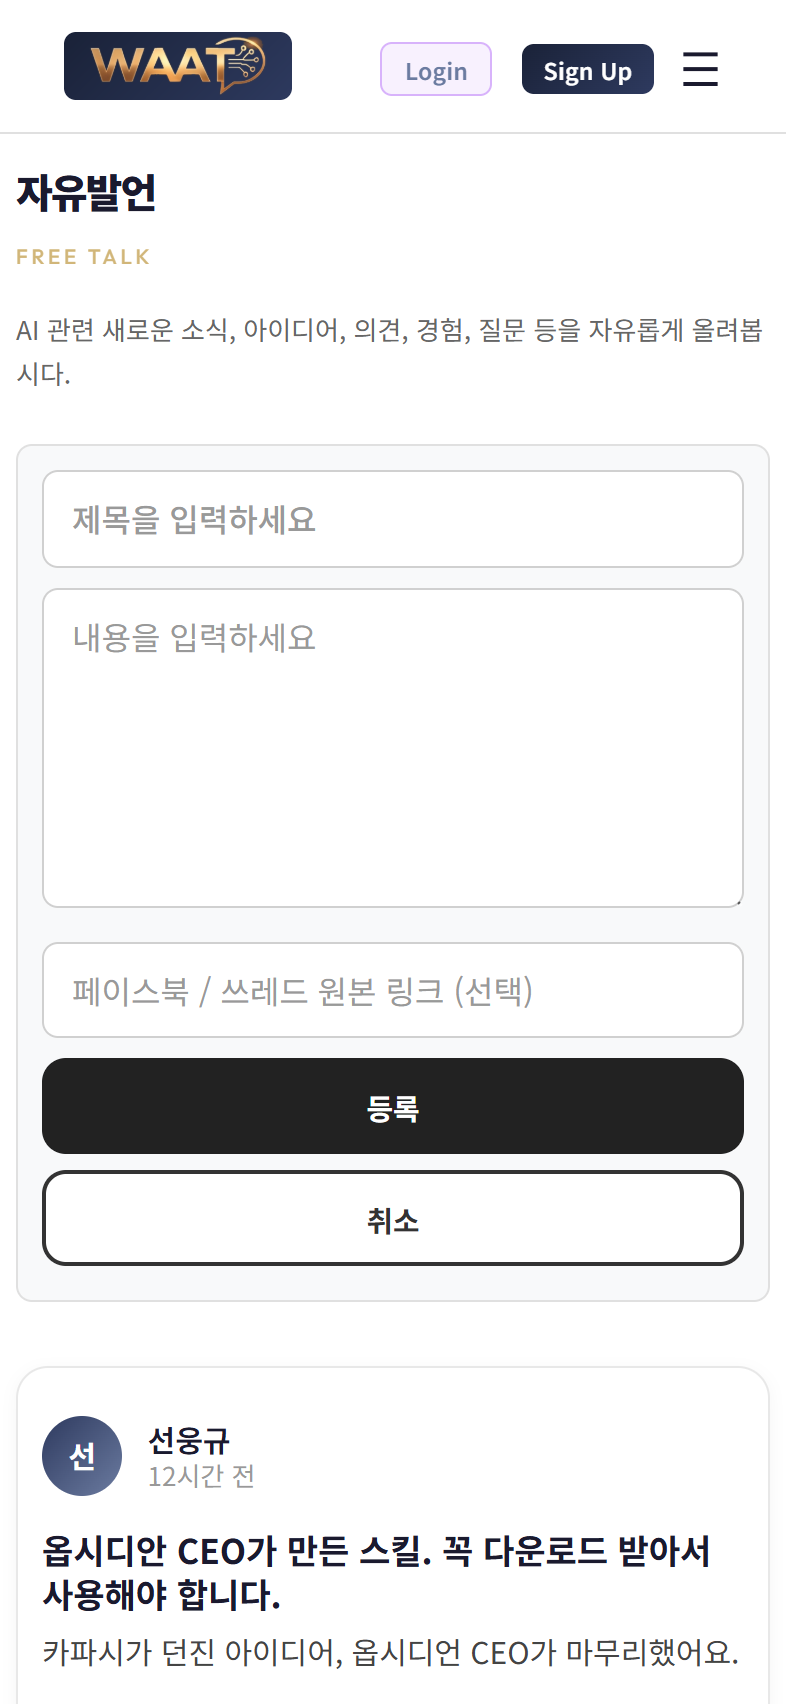
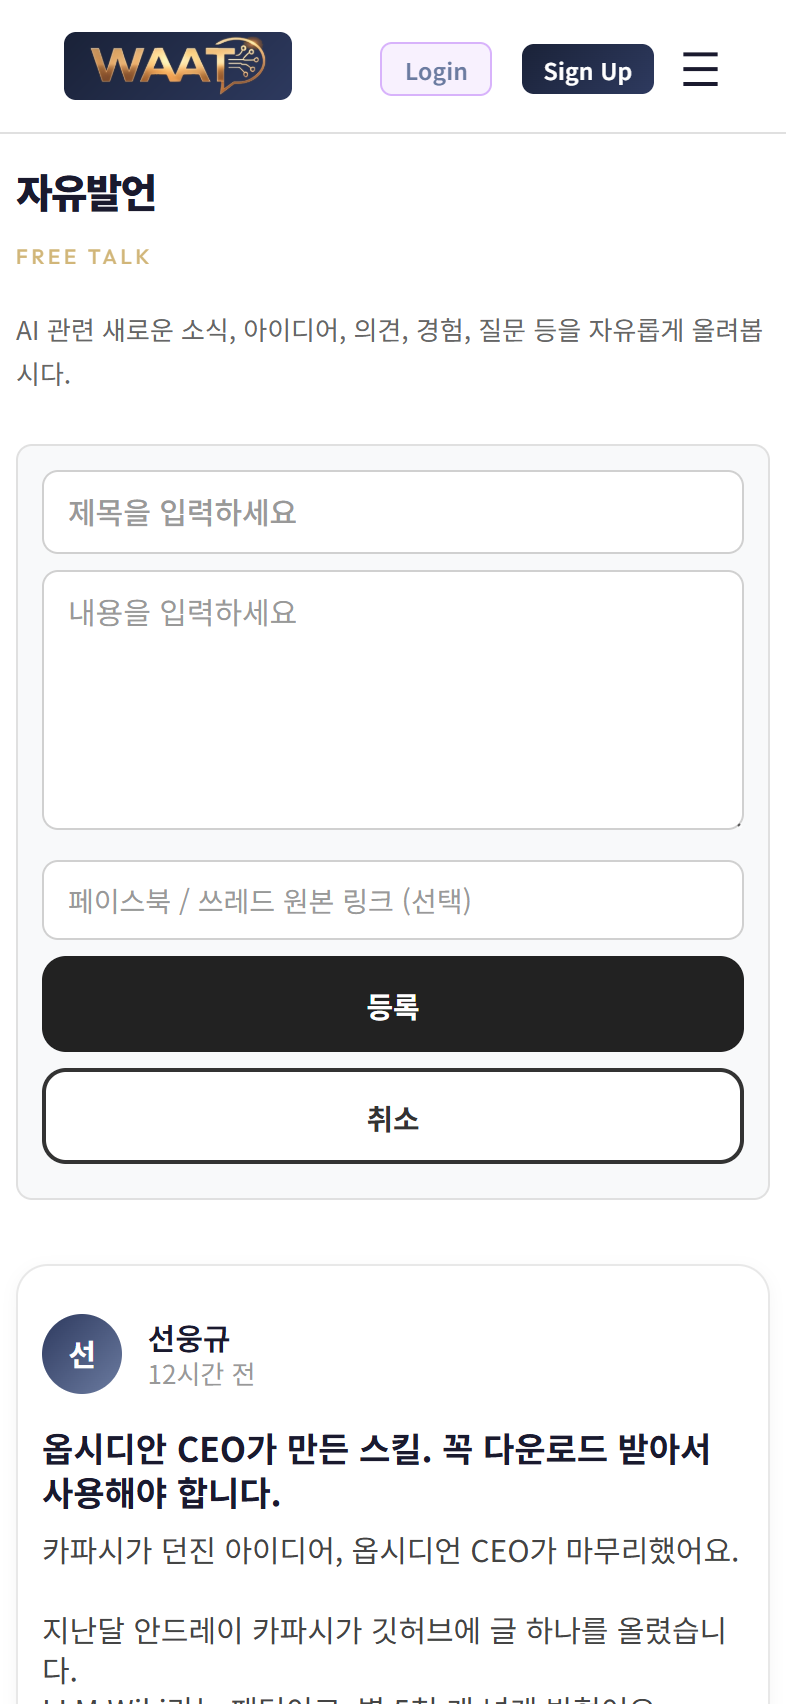
게시글 제목·본문 글씨 크기 통일 (15px) + 줄간격 1.25
- 제목: 17px → 15px, 볼드(700) 유지
- 본문: 15px 유지, 일반(400)
- 댓글 본문도 동일 (15px / 400)
- line-height: 1.3~1.3333 → 1.25 (페북 모바일 매칭, 더 컴팩트)
- 제목·본문 시각적 위계는 볼드 차이로만 표현

diff --git a/css/style.css b/css/style.css
@@ -2210,10 +2210,10 @@ footer {
         touch-action: manipulation;
     }
 
-    /* 게시글 본문 — FB 표준 */
+    /* 게시글 본문 — 제목·본문 동일 크기, 제목만 볼드 */
     .post-body { margin-bottom: 8px; }
-    .post-title { font-size: 17px; line-height: 1.3; font-weight: 700; margin-bottom: 4px; word-break: break-word; }
-    .post-content { font-size: 15px; line-height: 1.3333; word-break: break-word; }
+    .post-title { font-size: 15px; line-height: 1.25; font-weight: 700; margin-bottom: 4px; word-break: break-word; }
+    .post-content { font-size: 15px; line-height: 1.25; font-weight: 400; word-break: break-word; }
 
     /* 푸터 (좋아요/댓글/공유) */
     .post-footer {
@@ -2252,7 +2252,7 @@ footer {
     .comment-time { font-size: 12px; }
     .comment-reply-btn,
     .comment-delete-btn { padding: 2px 8px; font-size: 12px; font-weight: 600; }
-    .comment-body { font-size: 15px; line-height: 1.3333; }
+    .comment-body { font-size: 15px; line-height: 1.25; }
     .comment-reply { margin-left: 24px; padding-left: 12px; }
 
     /* 댓글/답글 폼 */
@@ -3787,8 +3787,9 @@ footer {
    파일 끝에 배치한다.
    ============================================================ */
 @media (max-width: 768px) {
-    .post-card .post-title { font-size: 17px !important; line-height: 1.3; font-weight: 700; }
-    .post-card .post-content { font-size: 15px !important; line-height: 1.3333; }
+    /* 제목·본문 동일 크기 (15px), 제목만 볼드. line-height 페북 매칭 */
+    .post-card .post-title { font-size: 15px !important; line-height: 1.25 !important; font-weight: 700 !important; margin-bottom: 4px !important; }
+    .post-card .post-content { font-size: 15px !important; line-height: 1.25 !important; font-weight: 400 !important; }
     .post-card .post-author { font-size: 15px !important; font-weight: 600; line-height: 1.2; }
     .post-card .post-time { font-size: 13px !important; }
     .post-card .post-avatar { width: 40px; height: 40px; font-size: 15px !important; }
@@ -3799,7 +3800,7 @@ footer {
     .post-card .post-action-btn { font-size: 13px !important; }
     .comment-item .comment-author { font-size: 13px !important; font-weight: 600; }
     .comment-item .comment-time { font-size: 12px !important; }
-    .comment-item .comment-body { font-size: 15px !important; line-height: 1.3333; }
+    .comment-item .comment-body { font-size: 15px !important; line-height: 1.25 !important; font-weight: 400 !important; }
     .comment-item .comment-reply-btn,
     .comment-item .comment-delete-btn { font-size: 12px !important; font-weight: 600; }
     .comment-input { font-size: 15px !important; padding: 8px 12px !important; line-height: 1.3 !important; }

diff --git a/speakup.html b/speakup.html
@@ -6,7 +6,7 @@
     <title>Free Talk — WAAT</title>
     <meta name="description" content="WAAT 커뮤니티 게시판 — AI 관련 새로운 소식, 아이디어, 의견, 경험, 질문 등을 자유롭게 나눠봅시다.">
     <link href="https://fonts.googleapis.com/css2?family=Outfit:wght@300;400;500;600;700;800;900&family=Noto+Sans+KR:wght@300;400;500;600;700;800;900&family=JetBrains+Mono:wght@400;500;600;700&display=swap" rel="stylesheet">
-    <link rel="stylesheet" href="css/style.css?v=20260514f">
+    <link rel="stylesheet" href="css/style.css?v=20260514g">
 </head>
 <body class="speakup-light">
 
